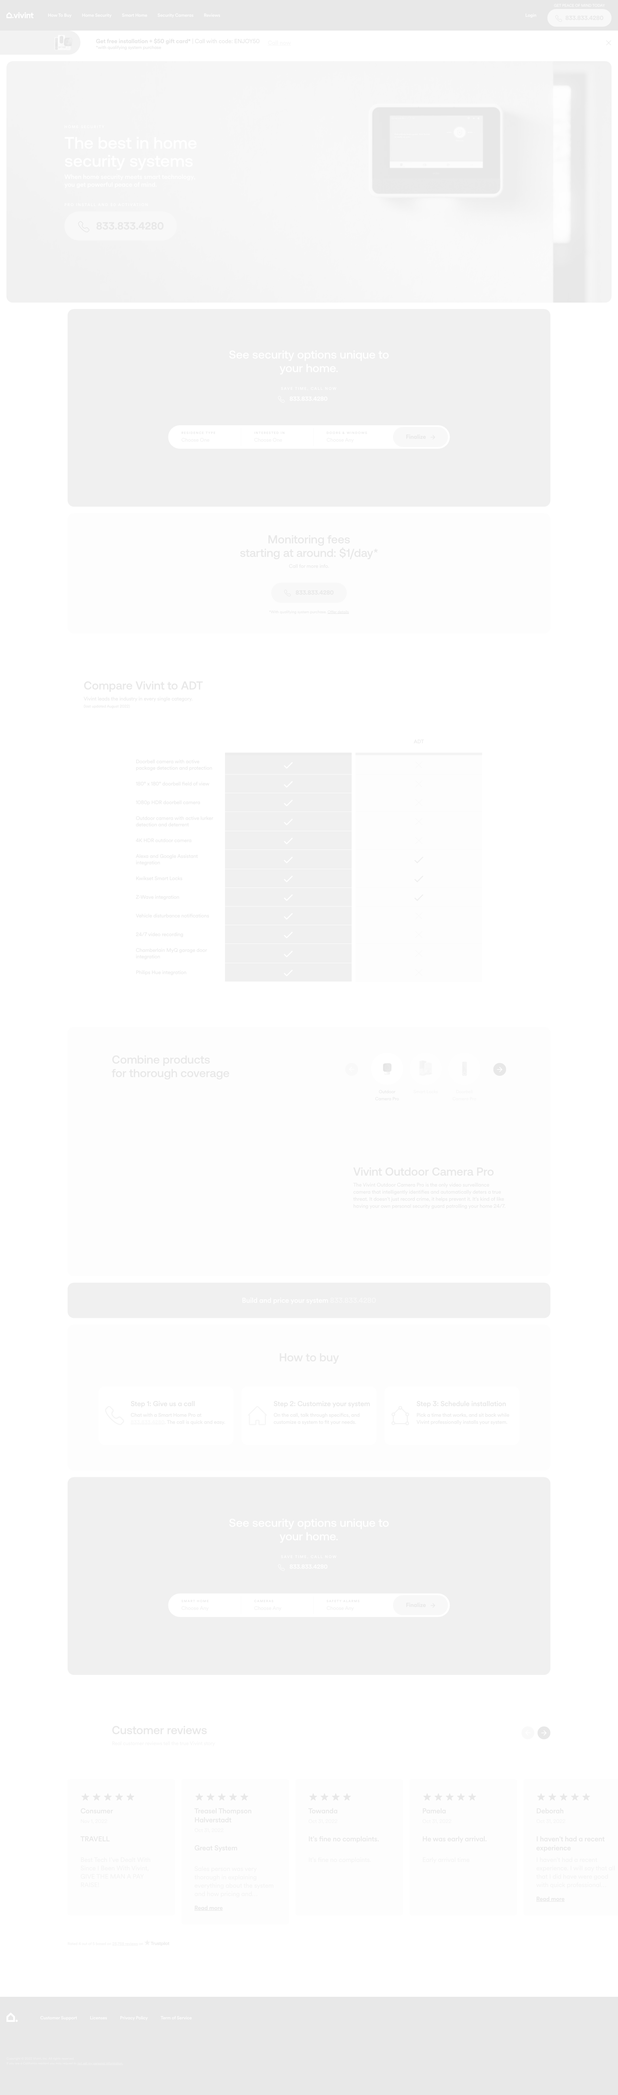
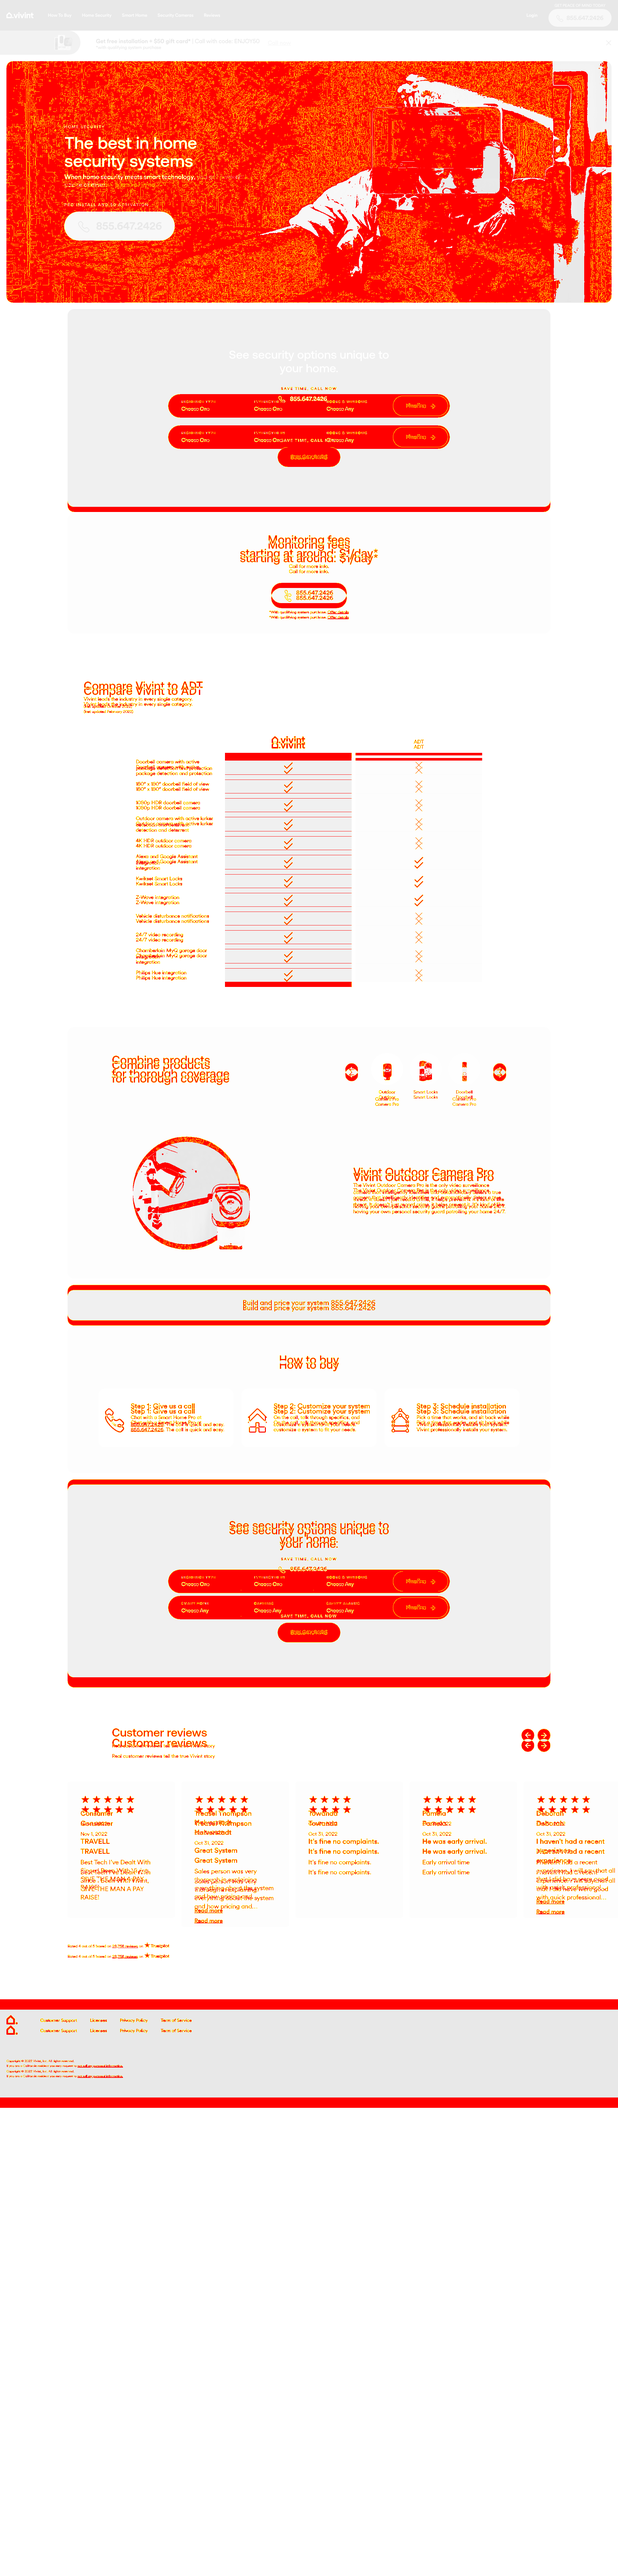
update viewport length

diff --git a/index.js b/index.js
@@ -11,15 +11,15 @@ let img2;
     const browser = await puppeteer.launch();
     const page = await browser.newPage();
 
-    await page.setViewport({width: 1920, height: 1080});
+    await page.setViewport({width: 1920, height: 8000});
     await page.goto("https://www.vivint.com/ppc/security", { waitUntil: "networkidle2" });
 
     await page.screenshot({ path: "screenshot1.png", 
                             type: "png",
-                            fullPage: true 
+                            fullPage: false 
                         });
 
-    await page.goto("https://www.vivint.com/ppc/security", { waitUntil: "networkidle2" });
+    await page.goto("https://www.vivint.com/ppc/brand", { waitUntil: "networkidle2" });
 
     await page.screenshot({ path: "screenshot2.png",
                             type: "png",
@@ -36,4 +36,5 @@ let img2;
     pixelmatch(img1.data, img2.data, diff.data, width, height, {threshold: 0.1});
 
     fs.writeFileSync('diff.png', PNG.sync.write(diff));
+    // console.log(diff);
 })(); 
